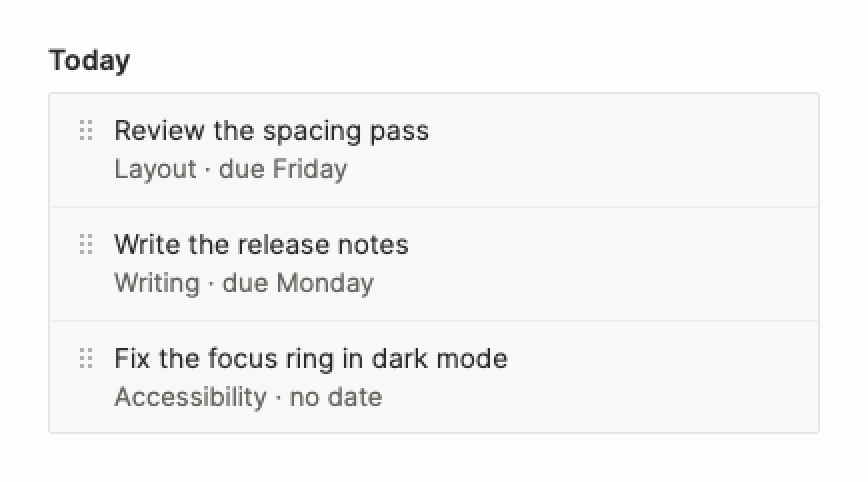
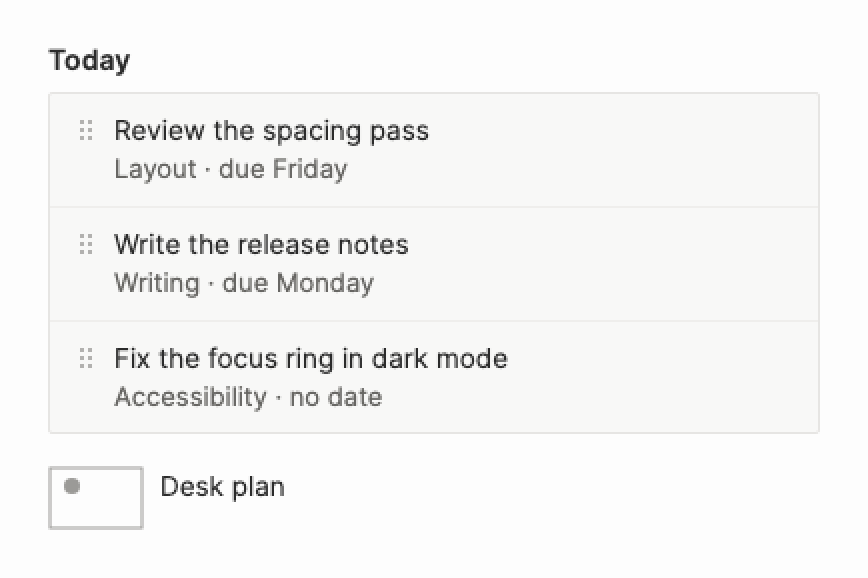
Stop R-align-near-miss reading drag-labelled pictures as handles
The handle pass matched any element whose aria-label contains "drag" or
"reorder". A canvas, viewport or plan svg says "drag" in its label to tell
you how to use it, so camera-setup's room plan was held to a text line as
if it were a grip. The label guess now counts only on a button or
[role="button"], where a real grip such as a dnd-kit "Drag to reorder"
button still counts.

The good fixture gains a drag-labelled plan svg beside a caption, which
fails on the old selector and passes now.

diff --git a/design-score/fixtures/R-align-near-miss/good.html b/design-score/fixtures/R-align-near-miss/good.html
@@ -1,5 +1,5 @@
 <!doctype html>
-<!-- R-align-near-miss, good: each grip is centered on its row's first text line, and every text line in a row starts at the same left edge. -->
+<!-- R-align-near-miss, good: each grip is centered on its row's first text line, and every text line in a row starts at the same left edge. The plan below is a picture whose label says "Drag": it is not a grip, so its center is not held to the caption's first line. -->
 <html lang="en">
 <head>
 <meta charset="utf-8">
@@ -16,6 +16,8 @@
   .grip { display: flex; align-items: center; height: calc(var(--ds-font-size-ui-md) * var(--ds-line-height-ui)); color: var(--ds-color-text-faint); }
   .title { font-size: var(--ds-font-size-ui-md); line-height: var(--ds-line-height-ui); }
   .meta { font-size: var(--ds-font-size-ui-sm); line-height: var(--ds-line-height-ui); color: var(--ds-color-text-muted); }
+  .plan { display: flex; align-items: flex-start; gap: var(--ds-space-2); margin-top: var(--ds-space-4); color: var(--ds-color-text-faint); }
+  .caption { margin: 0; font-size: var(--ds-font-size-ui-md); line-height: var(--ds-line-height-ui); color: var(--ds-color-text-body); }
 </style>
 </head>
 <body>
@@ -25,5 +27,6 @@
     <li><span class="grip" data-drag-handle><svg width="12" height="12" viewBox="0 0 12 12" aria-hidden="true"><g fill="currentColor"><circle cx="4" cy="2" r="1"/><circle cx="8" cy="2" r="1"/><circle cx="4" cy="6" r="1"/><circle cx="8" cy="6" r="1"/><circle cx="4" cy="10" r="1"/><circle cx="8" cy="10" r="1"/></g></svg></span><div class="body"><div class="title">Write the release notes</div><div class="meta">Writing · due Monday</div></div></li>
     <li><span class="grip" data-drag-handle><svg width="12" height="12" viewBox="0 0 12 12" aria-hidden="true"><g fill="currentColor"><circle cx="4" cy="2" r="1"/><circle cx="8" cy="2" r="1"/><circle cx="4" cy="6" r="1"/><circle cx="8" cy="6" r="1"/><circle cx="4" cy="10" r="1"/><circle cx="8" cy="10" r="1"/></g></svg></span><div class="body"><div class="title">Fix the focus ring in dark mode</div><div class="meta">Accessibility · no date</div></div></li>
   </ul>
+  <div class="plan"><svg role="group" aria-label="Desk plan. Drag the lamp to move it." width="48" height="32" viewBox="0 0 48 32"><rect x="1" y="1" width="46" height="30" fill="none" stroke="currentColor"/><circle cx="12" cy="10" r="4" fill="currentColor"/></svg><p class="caption">Desk plan</p></div>
 </body>
 </html>

diff --git a/scripts/design-score/probes.ts b/scripts/design-score/probes.ts
@@ -839,12 +839,13 @@ export function probePage(o: ProbeOptions): { findings: ProbeFinding[]; stats: R
   }
 
   // Handles: a grip's visible center against the first text line of the row it moves.
+  // A label that says "drag" marks a grip only on a control: a canvas or viewport label says "drag" to describe the surface.
   const handleSel = [
     ...o.handles,
     '[draggable="true"]',
     "[data-drag-handle]",
-    '[aria-label*="drag" i]',
-    '[aria-label*="reorder" i]',
+    ':is(button, [role="button"])[aria-label*="drag" i]',
+    ':is(button, [role="button"])[aria-label*="reorder" i]',
     '[class*="drag-handle"]',
     '[class*="grip"]',
   ].join(", ");
